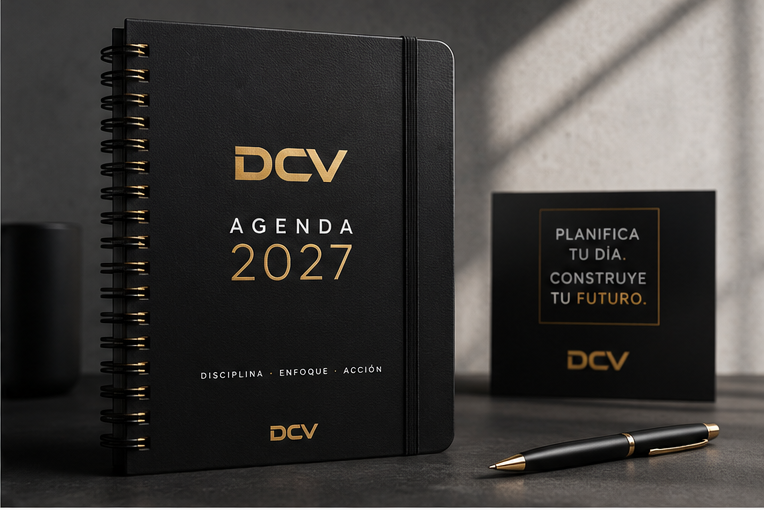
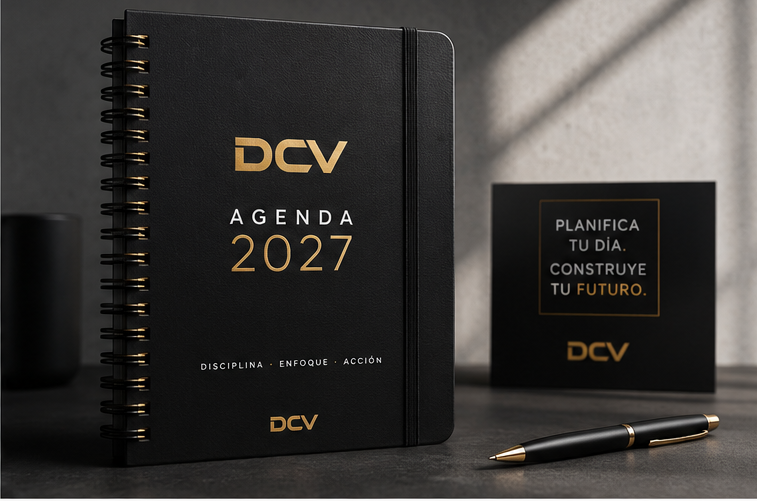
refactor: organizar arquitectura de la tienda

diff --git a/app/data/products.ts b/app/data/products.ts
@@ -1,0 +1,66 @@
+export type Product = {
+    id: number;
+    title: string;
+    price: string;
+    image: string;
+    category: string;
+  };
+  
+  export const products: Product[] = [
+    {
+      id: 1,
+      title: "Hábitos Atómicos",
+      price: "$89.900",
+      image: "/products/habitos-atomicos.png",
+      category: "Libros",
+    },
+    {
+      id: 2,
+      title: "Agenda DCV 2027",
+      price: "$59.900",
+      image: "/products/agenda-dcv.png",
+      category: "Accesorios",
+    },
+    {
+      id: 3,
+      title: "Mug Modo Disciplina",
+      price: "$39.900",
+      image: "/products/taza-disciplina.png",
+      category: "Accesorios",
+    },
+    {
+      id: 4,
+      title: "Kit Productividad",
+      price: "$129.900",
+      image: "/products/kit-productividad.png",
+      category: "Academia",
+    },
+    {
+      id: 5,
+      title: "Diario de Gratitud",
+      price: "$49.900",
+      image: "/products/agenda-dcv.png",
+      category: "Accesorios",
+    },
+    {
+      id: 6,
+      title: "Termo DCV",
+      price: "$79.900",
+      image: "/products/taza-disciplina.png",
+      category: "Accesorios",
+    },
+    {
+      id: 7,
+      title: "Cuaderno Premium",
+      price: "$54.900",
+      image: "/products/agenda-dcv.png",
+      category: "Accesorios",
+    },
+    {
+      id: 8,
+      title: "Pack Mentalidad",
+      price: "$149.900",
+      image: "/products/habitos-atomicos.png",
+      category: "Libros",
+    },
+  ];

diff --git a/components/ui/SearchInput.tsx b/components/ui/SearchInput.tsx
@@ -1,0 +1,41 @@
+import { Search } from "lucide-react";
+
+type SearchInputProps = {
+  placeholder?: string;
+};
+
+export default function SearchInput({
+  placeholder = "Buscar productos...",
+}: SearchInputProps) {
+  return (
+    <div className="relative">
+      <Search
+        size={20}
+        className="absolute left-5 top-1/2 -translate-y-1/2 text-neutral-500"
+      />
+
+      <input
+        type="text"
+        placeholder={placeholder}
+        className="
+          w-full
+          rounded-2xl
+          border
+          border-white/10
+          bg-neutral-900
+          py-4
+          pl-14
+          pr-5
+          text-white
+          outline-none
+          transition-all
+          duration-300
+          placeholder:text-neutral-500
+          focus:border-[#C8A04A]
+          focus:ring-2
+          focus:ring-[#C8A04A]/20
+        "
+      />
+    </div>
+  );
+}

diff --git a/app/product/page.tsx b/app/product/page.tsx
@@ -1,18 +1,40 @@
 import Navbar from "@/components/layout/Navbar";
-import Hero from "@/components/home/Hero";
-import Categories from "@/components/home/Categories";
-import FeaturedProducts from "@/components/home/FeaturedProducts";
-import Philosophy from "@/components/home/Philosophy";
 import Footer from "@/components/layout/Footer";
+import ProductGrid from "@/components/product/ProductGrid";
+import ProductFilters from "@/components/product/ProductFilters";
 
-export default function Home() {
+export default function ProductsPage() {
   return (
     <>
       <Navbar />
-      <Hero />
-      <Categories />
-      <FeaturedProducts />
-      <Philosophy />
+
+      <main className="bg-black pt-32 pb-24 text-white">
+
+        <div className="mx-auto max-w-7xl px-6">
+
+          <div className="text-center">
+
+            <p className="text-sm uppercase tracking-[0.5em] text-[#C8A04A]">
+              DCV SHOP
+            </p>
+
+            <h1 className="mt-6 text-5xl font-black md:text-6xl">
+              Todos nuestros productos
+            </h1>
+
+            <p className="mx-auto mt-6 max-w-2xl text-lg text-neutral-400">
+              Descubre herramientas diseñadas para ayudarte a construir una vida extraordinaria.
+            </p>
+
+          </div>
+
+          <ProductFilters />
+        </div>
+
+        <ProductGrid />
+
+      </main>
+
       <Footer />
     </>
   );

diff --git a/components/product/ProductGrid.tsx b/components/product/ProductGrid.tsx
@@ -1,0 +1,25 @@
+import ProductCard from "@/components/ui/ProductCard";
+import { products } from "@/app/data/products";
+
+
+
+export default function ProductGrid() {
+  return (
+    <section className="mx-auto mt-20 max-w-7xl px-6">
+
+      <div className="grid gap-8 sm:grid-cols-2 lg:grid-cols-3 xl:grid-cols-4">
+
+        {products.map((product) => (
+          <ProductCard
+            key={product.id}
+            title={product.title}
+            price={product.price}
+            image={product.image}
+          />
+        ))}
+
+      </div>
+
+    </section>
+  );
+}

diff --git a/components/ui/CategoryFilter.tsx b/components/ui/CategoryFilter.tsx
@@ -1,0 +1,25 @@
+const categories = [
+    "Todos",
+    "Libros",
+    "Accesorios",
+    "Academia",
+  ];
+  
+  export default function CategoryFilter() {
+    return (
+      <div className="mt-10 flex flex-wrap justify-center gap-4">
+        {categories.map((category, index) => (
+          <button
+            key={category}
+            className={`rounded-full px-6 py-3 text-sm font-semibold transition-all duration-300 ${
+              index === 0
+                ? "bg-[#C8A04A] text-black"
+                : "border border-white/10 bg-neutral-900 text-white hover:border-[#C8A04A] hover:text-[#C8A04A]"
+            }`}
+          >
+            {category}
+          </button>
+        ))}
+      </div>
+    );
+  }

diff --git a/components/ui/SortSelect.tsx b/components/ui/SortSelect.tsx
@@ -1,0 +1,24 @@
+export default function SortSelect() {
+    return (
+      <select
+        className="
+          rounded-2xl
+          border
+          border-white/10
+          bg-neutral-900
+          px-5
+          py-4
+          text-white
+          outline-none
+          transition-all
+          duration-300
+          focus:border-[#C8A04A]
+        "
+      >
+        <option>Más recientes</option>
+        <option>Menor precio</option>
+        <option>Mayor precio</option>
+        <option>Más vendidos</option>
+      </select>
+    );
+  }

diff --git a/components/product/ProductFilters.tsx b/components/product/ProductFilters.tsx
@@ -1,0 +1,21 @@
+import SearchInput from "@/components/ui/SearchInput";
+import SortSelect from "@/components/ui/SortSelect";
+import CategoryFilter from "@/components/ui/CategoryFilter";
+
+export default function ProductFilters() {
+  return (
+    <>
+      <div className="mt-14 flex flex-col gap-6 lg:flex-row lg:items-center lg:justify-between">
+
+        <div className="w-full lg:max-w-2xl">
+          <SearchInput />
+        </div>
+
+        <SortSelect />
+
+      </div>
+
+      <CategoryFilter />
+    </>
+  );
+}

diff --git a/components/ui/ProductCard.tsx b/components/ui/ProductCard.tsx
@@ -21,7 +21,7 @@ export default function ProductCard({
           src={image}
           alt={title}
           fill
-          className="object-cover transition duration-500 group-hover:scale-105"
+          className="object-contain p-6 transition duration-500 group-hover:scale-105"
         />
 
       </div>